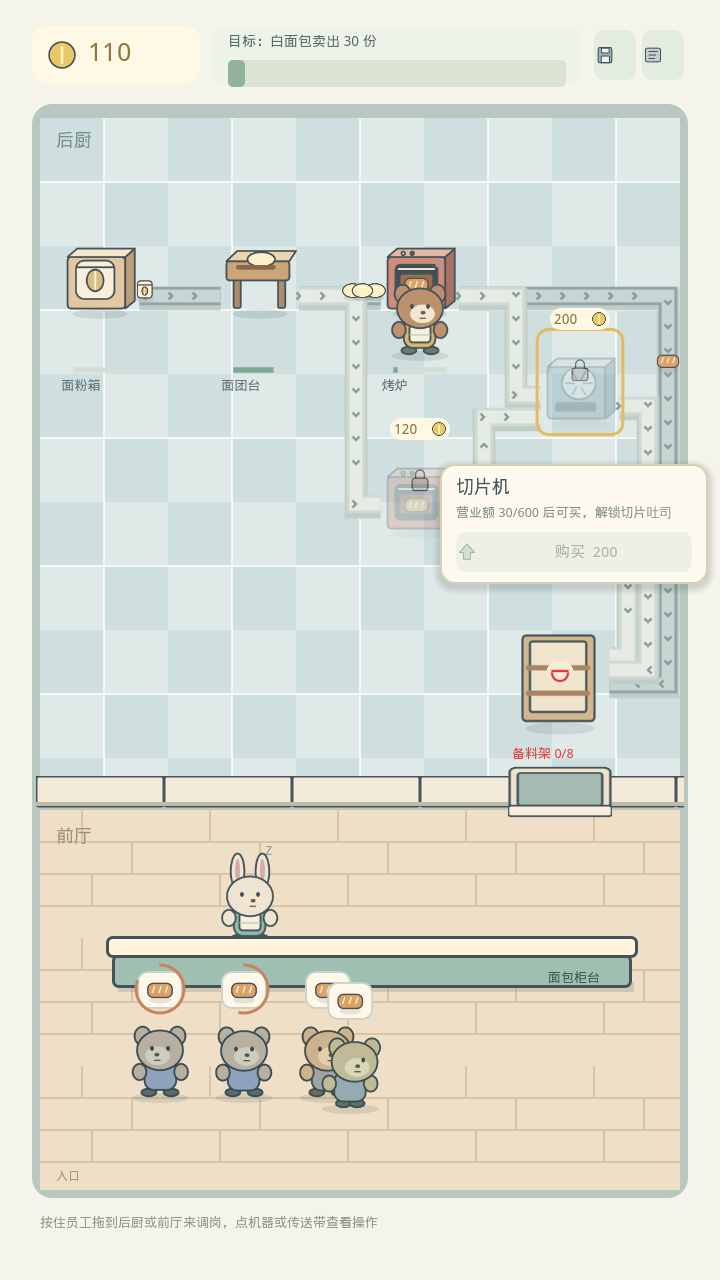
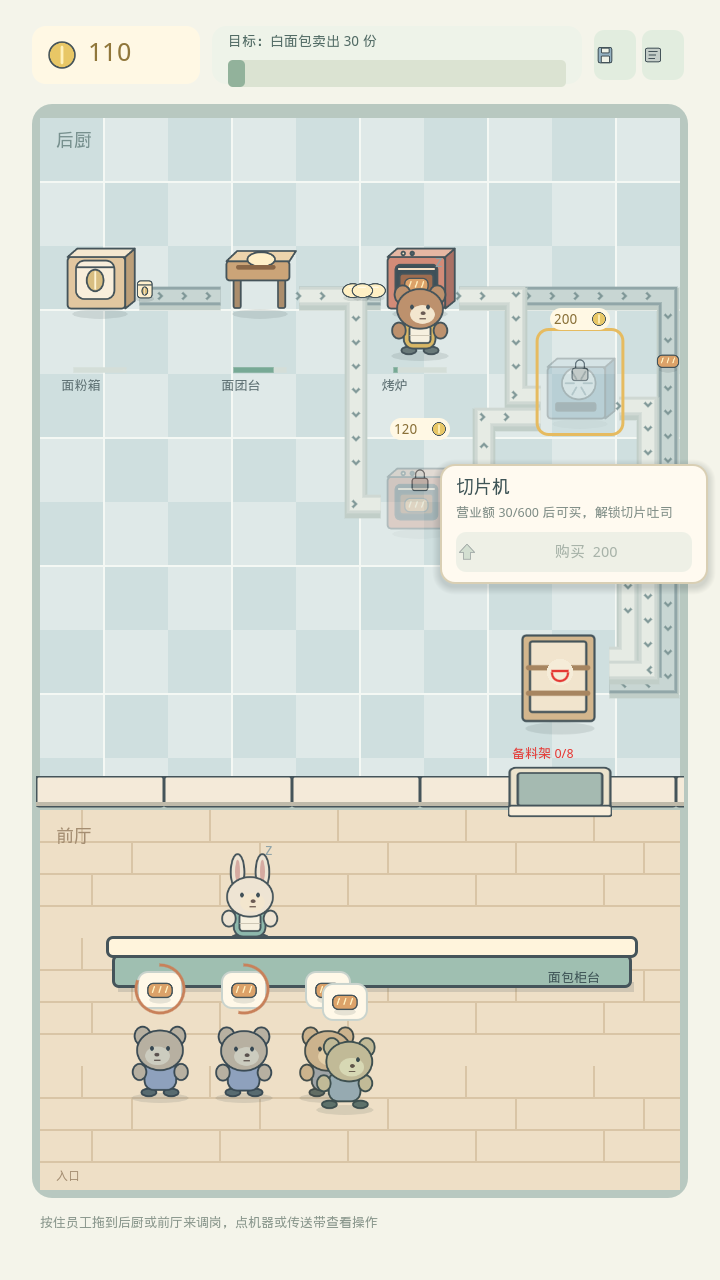
补齐字体子集里新菜名缺的「吐」「司」，加字形覆盖测试
- 用 art_src/graybox/subset_font.py 重新裁剪文泉驿微米黑（598 → 601 字，未丢字）
- tests/test_font.gd：内容里的名称、任务名，以及 presentation/、game/ 里的字符串字面量
  都必须在 UI 字体里有字形；旧字体下失败，新字体下通过
- 重新截取 PXJ-40 验收截图

Claude-Session: https://claude.ai/code/session_017HgfaQZtzNbsocga8qM6vm

diff --git a/docs/qa/README.md b/docs/qa/README.md
@@ -57,3 +57,5 @@ Display changes: kitchen columns are 80 px apart so the slicer fits right of the
 
 ![Slicer ghost card](pxj40-slicer-locked.png)
 ![Toast line](pxj40-toast-line.png)
+
+Font: the UI font is a glyph subset built from the repo's text. "切片吐司" added 吐 and 司, which the old subset lacked (the first PXJ-40 screenshots showed boxes). Regenerated with `python3 art_src/graybox/subset_font.py /usr/share/fonts/truetype/wqy/wqy-microhei.ttc` (598 → 601 glyphs, none lost). `tests/test_font.gd` now fails when a content name, task name or a string literal in `presentation/` or `game/` uses a character the font lacks; it failed on the old font and passes on the new one.
